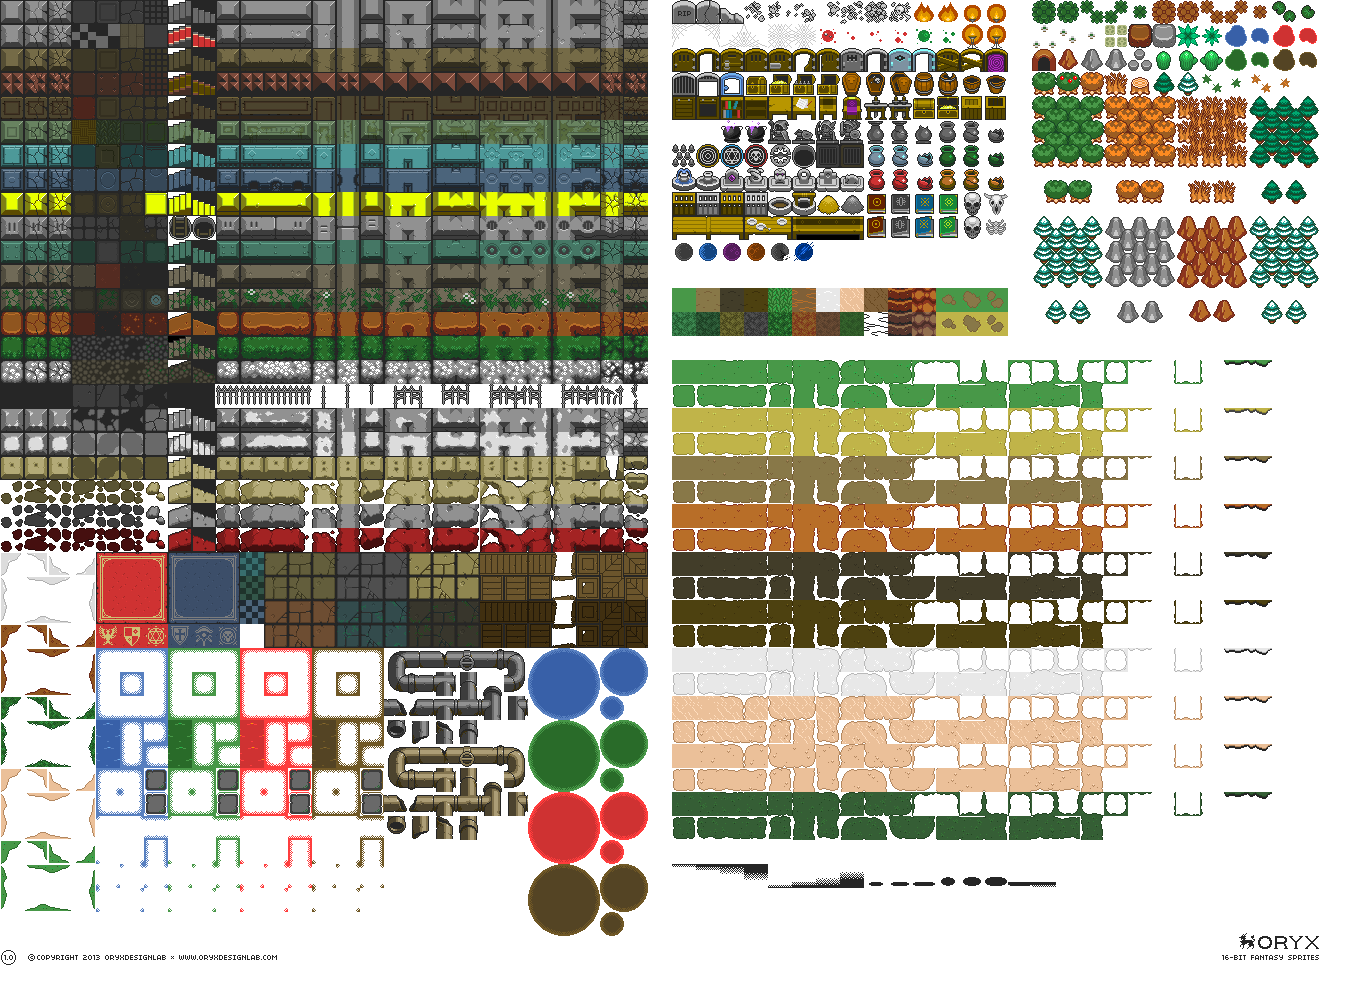
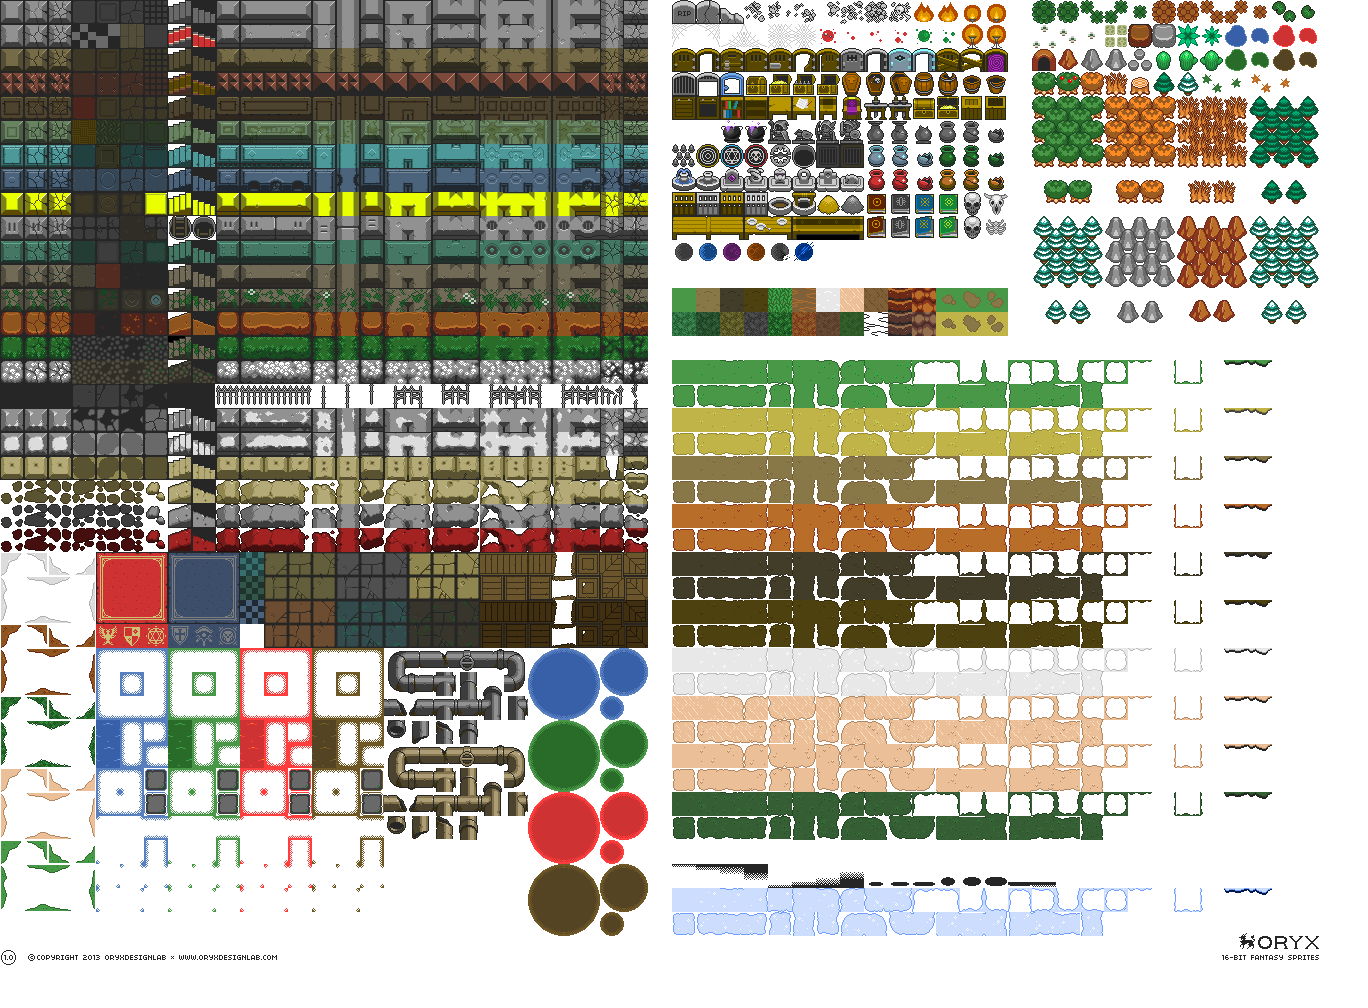
* Modified the snow tileset so that the path has more contrast; it is now blue.

Changed region(s): [[0.4912, 0.8611, 0.8289, 0.9534], [0.8904, 0.8611, 0.9211, 0.8919]]

diff --git a/src/js/TilesetManager.js b/src/js/TilesetManager.js
@@ -262,7 +262,7 @@
 
         constructSnowTileset: function() {
             // spawnTileGraphic, nonwalkableTileGraphic, walkableTileGraphic
-            var tileset = new game.Tileset(this.SNOW_TILESET_ID, game.Graphic.SPAWNER, game.Graphic.SNOW_BANK, game.Graphic.PATH_TILE_SNOW);
+            var tileset = new game.Tileset(this.SNOW_TILESET_ID, game.Graphic.SPAWNER, game.Graphic.SNOW_BANK, game.Graphic.PATH_TILE_SNOW_BLUE);
 
             var f1 = game.Graphic.SNOWY_EVERGREEN_TREE_PATCH_1;
             var f2 = game.Graphic.SNOWY_EVERGREEN_TREE_PATCH_2;

diff --git a/src/js/data/GraphicIndexConstants.js b/src/js/data/GraphicIndexConstants.js
@@ -93,6 +93,7 @@
         RED_WATER_1: 1720, // red-tinted water graphic, first frame
         BLUE_WATER_2: 1771, // blue-tinted water graphic, second frame
         RED_WATER_2: 1777, // red-tinted water graphic, second frame
+        PATH_TILE_SNOW_BLUE: 2137, // blue-colored snow tile. This marks the start of one of our "auto tiles".
 
         //----------------------------------------------------------------------
         // Graphics for eff_24.png
